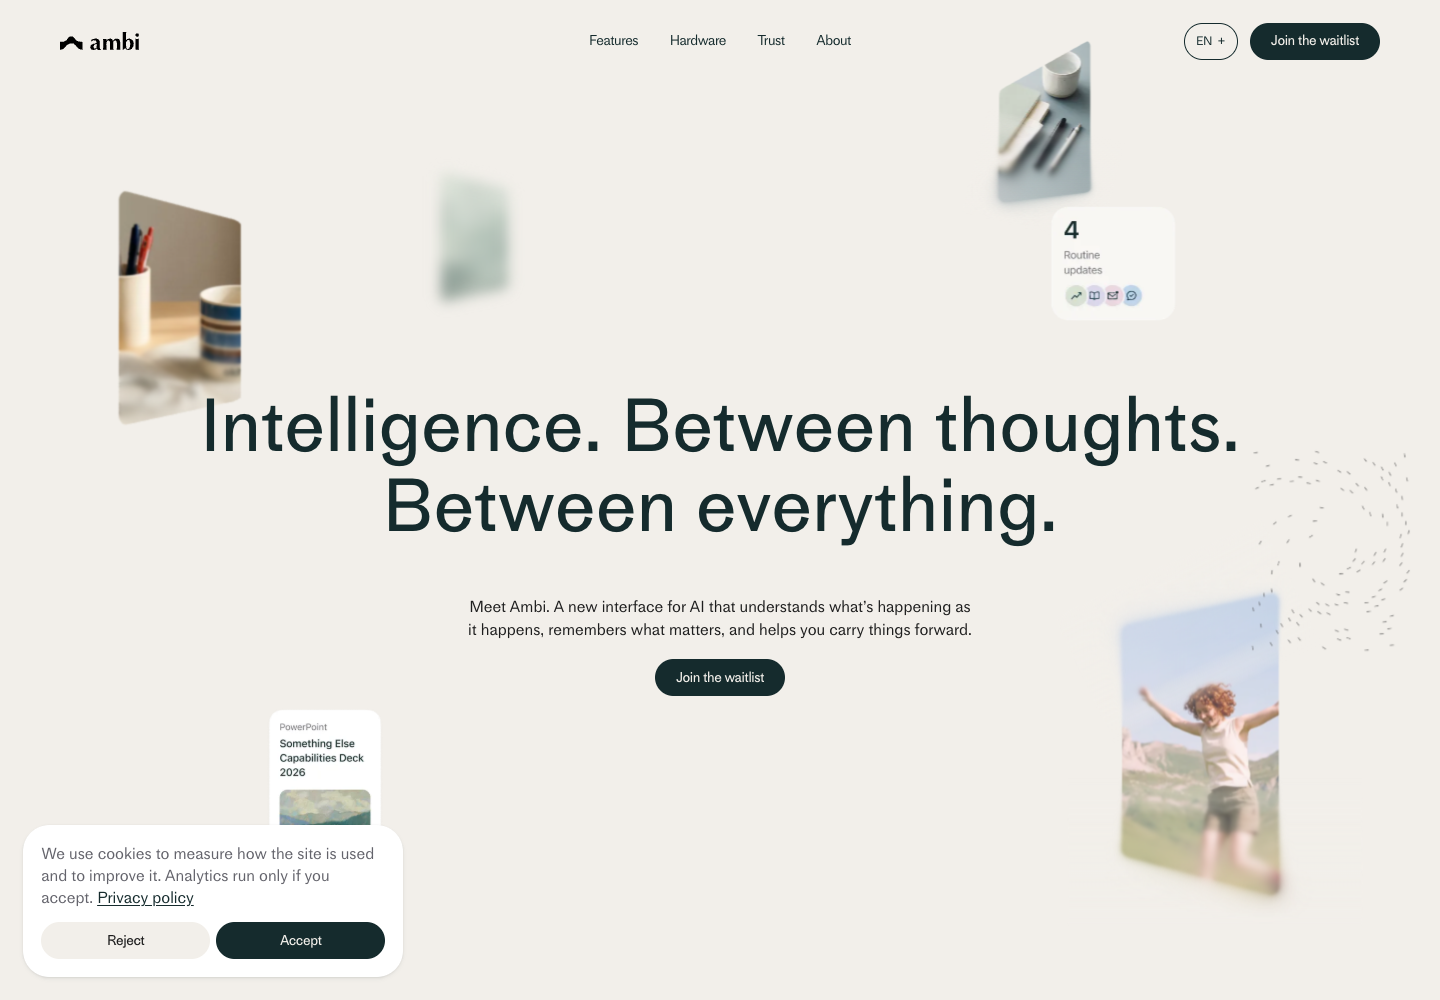
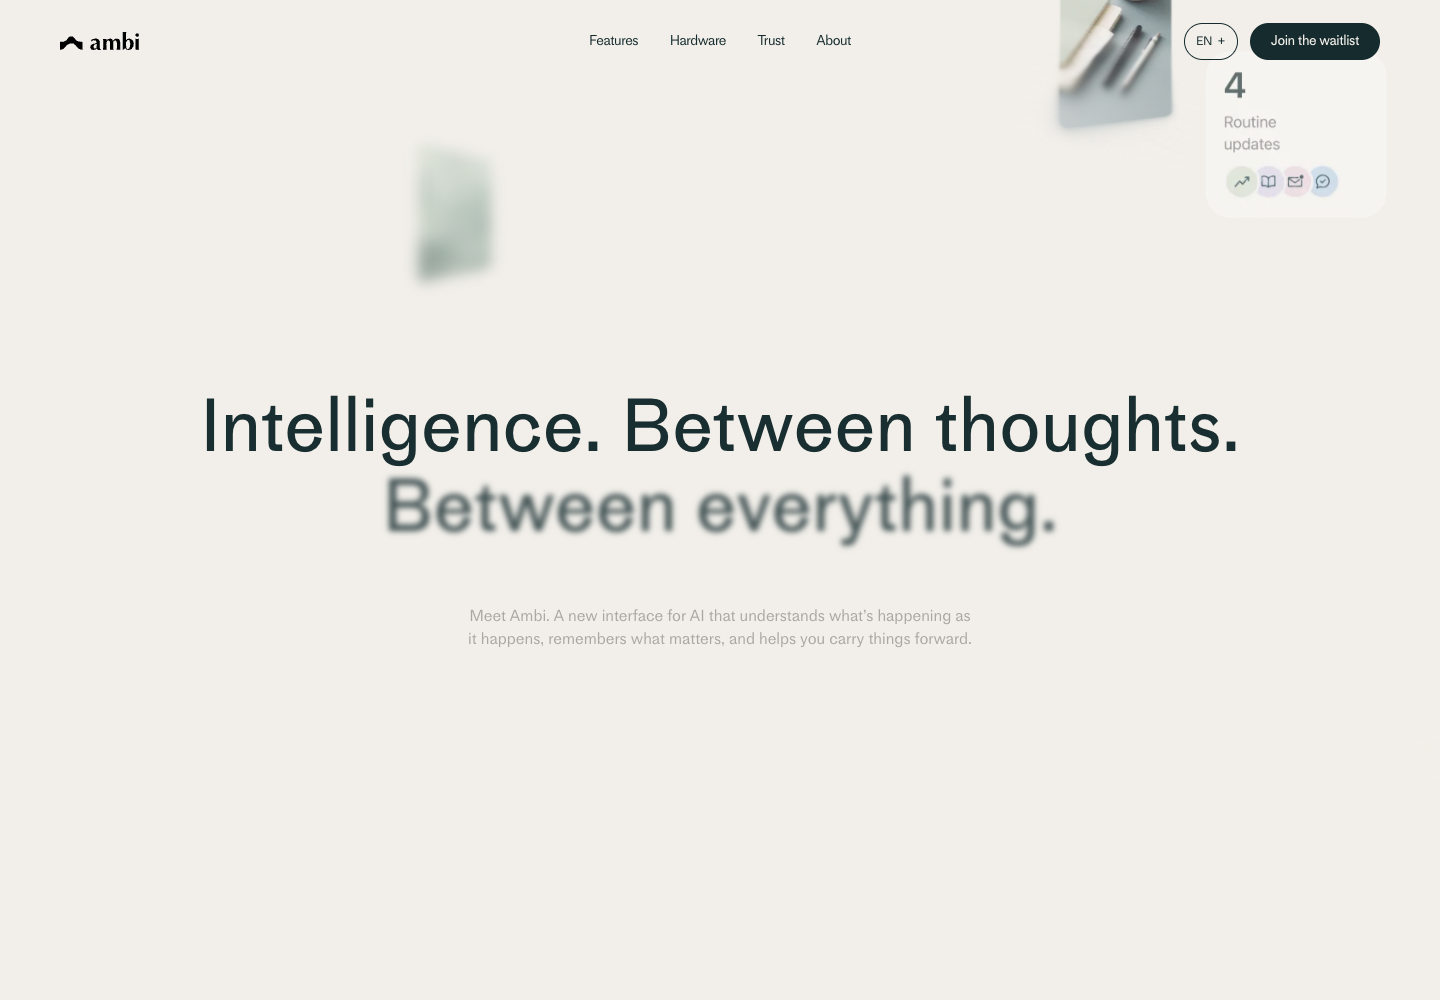
docs: add verified Doneas sources and clarify Ambi visual evidence

diff --git a/_briefs/2026-10-23-doneas-product-teardown.md b/_briefs/2026-10-23-doneas-product-teardown.md
@@ -84,3 +84,121 @@ source_refs:
 - checks:
 - published_at:
 - retro_notes:
+
+## 本次公开研究附录
+
+以下是本次重新核读公开资料取得的事实包。只选取支撑正文的事实，保留来源与未验证边界。
+
+# Doneas 公开资料证据包
+
+获取日期：2026-10-23（Asia/Singapore）。用途：供 cubxxw.com 产品拆解选材、引用与事实核对；本文件是研究资料，不是文章成稿。
+
+研究边界：只访问匿名可读的公开网页和网页公开引用的静态文件；没有登录、注册、加入圈子、通话、付款或触碰私人工作区；没有读取 Brain、既有私有研究或记忆。公开目录里的普通用户姓名、个人简介与具体任务不收录进本资料包。
+
+## 可以先采用的产品身份
+
+Doneas 的当前官网是 [doneas.com](https://doneas.com/)。官方将它定位为面向独立创业者、solo builders 的 Web 产品，把项目取舍、每周计划、日常同伴问责和进度记录连起来。官方 FAQ 明确说明，称作 accountability app 不代表存在原生 iOS 或 Android 应用。[S02](https://doneas.com/productivity-app) [S04](https://doneas.com/accountability-app)
+
+本次没有取得可核读的公司主体、注册地或创始人署名声明。官网手册和三篇早期博客署名 Bengeekly，官网的 demo profile 按钮链接到 `@bengeekly`；这些事实不足以单独证明法律主体或唯一创始人身份。[S01](https://doneas.com/) [S09](https://doneas.com/playbook) [S10](https://doneas.com/blog/welcome-to-the-doneas-blog)
+
+## 逐项事实账本
+
+“官方说明”表示厂商公开宣称的行为；“公开页观察”只表示本次匿名访问看到了相应字段或链接。两者均不等于付费产品、长期使用或真实通话实测。
+
+| 编号 | 可引用的事实或表述 | 证据级别 | 直接来源 |
+| --- | --- | --- | --- |
+| F01 | 产品将独立创业者、个人 builder、自由职业者与顾问列为目标用户，核心功能有项目取舍、周计划、每日同伴问责、进度记录。 | 官方说明 | [S02，开头与 Built for entrepreneurs who work independently](https://doneas.com/productivity-app) |
+| F02 | 计划阶段支持估算任务工作量、指定执行日期，并以实际容量安排一周；周一锁定后仍可新增工作，但迟加项应继续可见。 | 官方说明 | [S02，How Doneas works](https://doneas.com/productivity-app) |
+| F03 | 周计划被放在项目与路线图之后：项目给出长期方向，周计划选择本周承诺的工作。未完成项需要重新判断是否保留、拆分或删除。 | 官方说明 | [S03，Start With Your Projects 与 What Happens to Unfinished Tasks](https://doneas.com/weekly-planning) |
+| F04 | 项目页强调把“拥有一个项目”与“现在优先做这个项目”分开；项目、路线图、周计划、执行和进度构成连续流程。 | 官方说明 | [S05，Move From Project Planning to Weekly Execution](https://doneas.com/project-roadmap) |
+| F05 | 首页把一周标成周日计划、周一中午锁定、工作日执行、周五回顾；未完成项由用户手动带入后续计划。页面未在这段说明中明确锁定时区。 | 官方说明 | [S01，The week](https://doneas.com/) |
+| F06 | 圈子以同一批五位 builder、每工作日 15 分钟、持续一个月为标准描述。请假不计缺席；缺席会显示；三次缺席后移出，官网称一年可自行重新激活两次，此后需要同伴担保。 | 官方说明，惩罚规则未实测 | [S01，The circle](https://doneas.com/) |
+| F07 | 官网把圈子的作用限定为见证承诺与执行，不负责派发工作、管理项目或决定优先级；FAQ 使用“昨天做了什么、今天做什么”两问。 | 官方说明 | [S04，Work Alone Without Being Completely Alone、FAQ](https://doneas.com/accountability-app) |
+| F08 | 综合产品页把通话写成三个问题：完成了什么、下一步做什么、有什么阻碍。两问与三问版本并存，文章宜概括为“简短报进展、下一步与阻碍”。 | 官方说明存在措辞差异 | [S02，Check in](https://doneas.com/productivity-app)；[S04，Two Questions](https://doneas.com/accountability-app) |
+| F09 | 进度记录关联已完成工作与参与问责的持续性；官方称记录来自原有流程内的动作，并允许用户控制公开哪些部分。 | 官方说明，设置未实测 | [S06，Track Your Daily Accountability Too、Control What You Make Visible](https://doneas.com/progress-tracking) |
+| F10 | 首页当前报价为免费 30 天，之后每月 25 美元，可随时取消；首页还声称取消后个人页面保留。没有在本次资料中证明试用是否要求支付卡、税费或退款规则。 | 官方说明，未结账验证 | [S01，首屏与末尾 CTA](https://doneas.com/) |
+| F11 | 首页明确使用“no AI, on purpose”作为卖点。这是官方定位，不能据此断言整套技术栈完全没有任何模型或自动化服务。 | 官方说明 | [S01，首屏价格行](https://doneas.com/) |
+| F12 | 公开 circles 目录允许先按固定时段选圈子，显示 UTC 时间、月度名称、人数和剩余席位；也提供转向 builders 目录、先选人的入口。 | 公开页观察 | [S07](https://doneas.com/circles) |
+| F13 | 本次 circles 目录显示七条月度圈子记录，UTC 时段为 01:00、06:00、07:00、08:00、11:00、13:00、20:00。时段会变，不可写成永久排班或时区覆盖承诺。 | 公开页观察，时点数据 | [S07](https://doneas.com/circles) |
+| F14 | 公开 builders 目录包含姓名/地点/圈子搜索框、所属圈子与“Join calls with …”入口；也存在 Between circles 状态。目录标题当时显示 21 人，但这是页面计数，不是已核实的付费人数或活跃人数。 | 公开页观察，时点数据 | [S08](https://doneas.com/builders) |
+| F15 | 一个匿名可读的圈子详情显示：每天 07:00 UTC、15 分钟、运行至 10 月 31 日、席位 5 of 5，并给出下一场 standup 日期。 | 公开页观察 | [S13](https://doneas.com/circle/64) |
+| F16 | 对圈子目录的 Join calls 链接进行匿名访问后，浏览工具最终落到注册页。这里只证明匿名加入需要先进入注册流程，不能证明完成注册后的分配行为。 | 公开链接跳转观察 | [S14，join/76](https://doneas.com/join/76) → [register](https://doneas.com/register) |
+
+## 手册与设计来历
+
+[The Solo Playbook](https://doneas.com/playbook) 署名 Bengeekly，页面公开发布的文案围绕把计划与执行分开、把新点子放入 backlog、让失约产生小而确定的代价、调整环境减少意志力依赖，以及找一个会注意到自己消失的人。作者讲到用 KitKat 约束迟到、把闹钟放远、曾雇人每天来电问计划。这些是作者的自述，不能写成经过独立验证的心理学效果或用户战绩。[S09](https://doneas.com/playbook)
+
+手册本次未被网页正文抽取器成功展开，两次匿名浏览器渲染也超时。上述文案来自该公开页面直接引用的官方发布文件 [Playbook-DLn9ievC.js](https://doneas.com/build/assets/Playbook-DLn9ievC.js)，属于公开发布内容核读，不是浏览器交互验收。文件名带版本指纹，后续可能改变。
+
+两篇更便于外部读者核查的官方短文，能交叉支持设计来历：
+
+- [Separate planning from execution](https://doneas.com/blog/separate-planning-from-execution)，2026-08-05，Bengeekly：自述用周日晚上 30 分钟决定本周安排，工作日执行既定计划。支持“把取舍集中在一个固定时间”的产品思路，不证明所有用户都会减少拖延。[S11](https://doneas.com/blog/separate-planning-from-execution)
+- [Make slipping cost something](https://doneas.com/blog/make-slipping-cost-something)，2026-08-01，Bengeekly：自述以一块 KitKat 作为迟到代价，强调代价确定、即时且有人知道。不能由此推导 Doneas 会对缺席收取罚金。[S12](https://doneas.com/blog/make-slipping-cost-something)
+
+## 不能从公开资料推出的结论
+
+1. **不能写“我参加后更自律了”**：本次没有完成注册、计划、真实通话或多周使用。也没有独立用户效果数据。
+2. **不能写每个圈子严格总共五人且系统绝不超员**：目录当时一条记录显示 `6 of 5`，其详情则显示 `5 of 5`。同一目录还出现重复的 Circle 5 和 Circle 6 名称。应保留为公开展示的不一致，不能判断是容量规则、管理者额外席位、缓存还是错误。[S07](https://doneas.com/circles) [S13](https://doneas.com/circle/64)
+3. **不能把同伴问责写成教练服务**：官方说明圈子不负责管理项目；没有证明存在专业主持、教练质量保障、行业匹配或冲突处理制度。[S04](https://doneas.com/accountability-app)
+4. **不能声称系统验证了真实产出**：公开说明能证明产品记录“shipped”，尚未证明系统会核验任务对应的实际外部成果，或防止自报造假。
+5. **不能断言每周锁定在用户本地周一中午**：首页给出 Monday noon，未说明采用何种时区。对补加、改期、撤销、跨周和节假日的全部边界也未实测。[S01](https://doneas.com/) [S02](https://doneas.com/productivity-app)
+6. **不能把 HTML 中的脚本、资源域名推成后端架构**：本次不对数据库、视频服务、支付处理方、安全性、数据保留或模型使用作未经证明的推断。
+7. **不能把网页里的视频占位当已看完演示**：公开发布文件存在视频卡片与时长文案；本次未找到并播放可核读的视频，不引用视频内含信息。
+
+## 条款、隐私与计费：查到了什么、还差什么
+
+2026-10-23 核读首页、功能页、目录和注册入口，并检索 `site:doneas.com privacy`、`site:doneas.com terms` 与退款关键词后，未找到可直接核读的 Doneas 官方条款、隐私或退款页面。匿名 HTTP 检查得到：
+
+| 检查地址 | 本次结果 | 能说明什么 |
+| --- | --- | --- |
+| [privacy](https://doneas.com/privacy) | HTTP 404 | 只说明此路径不可用 |
+| [privacy-policy](https://doneas.com/privacy-policy) | HTTP 404 | 同上 |
+| [terms](https://doneas.com/terms) | HTTP 404 | 同上 |
+| [terms-of-service](https://doneas.com/terms-of-service) | HTTP 404 | 同上 |
+| [pricing](https://doneas.com/pricing) | HTTP 404 | 独立价格页不可用，价格依据仍是首页 |
+| [sitemap.xml](https://doneas.com/sitemap.xml) | HTTP 200 | 本次列出的站点地图没有法律或独立价格页入口 |
+| [robots.txt](https://doneas.com/robots.txt) | HTTP 200 | 给出了上述 sitemap；不构成隐私承诺 |
+
+检索未找到不等于这些文件不存在。仍待厂商或实际购买流程证明：法律主体、支付卡要求、自动续费与取消生效时间、退款、数据删除/导出、公开默认值、会议是否录制、视频/音频处理与保存、成员举报/申诉、缺席重置的年度口径。文章可以明确说“公开入口中没有找到”，不要写成合规结论。
+
+## 官方图像与截图候选入口
+
+本研究没有生成已验收的产品截图。以下是可进一步采集的官方入口；取图前应按文章用途核读画面，并避免普通用户个人任务、简介、聊天或真实通话成员。
+
+| 候选 | URL | 已确认的边界与用途 |
+| --- | --- | --- |
+| 首页首屏与每周流程 | https://doneas.com/ | 最适合表现定位、价格与 Plan/Lock/Ship/Reflect；其中交互演示不能冒充真实账号使用 |
+| 圈子目录 | https://doneas.com/circles | 能展示“先选可坚持的时间”这一入口；建议裁切时段与人数信息，避免普通成员肖像/姓名；保留截图日期 |
+| 圈子详情 | https://doneas.com/circle/64 | 适合展示 15 分钟、月度周期、UTC 时间与席位；同样须裁切成员信息 |
+| 手册 | https://doneas.com/playbook | 适合展示产品方法论；当前采集器未完成视觉渲染，不能声称已检查排版与视频 |
+| 官网分享图 | https://doneas.com/brand/og-default.png | 官方 `og:image` 与 `twitter:image` 元数据指向此图；本次 HEAD 返回 HTTP 200、image/png、37744 字节；它是分享图候选，不是产品界面截图 |
+| 站点品牌图标 | https://doneas.com/favicon.svg?v=2 | 页面公开引用；本次 HEAD 返回 HTTP 200、image/svg+xml；使用前检查视觉 |
+| Apple touch icon | https://doneas.com/apple-touch-icon.png?v=2 | 页面公开引用；本次 HEAD 返回 HTTP 200、image/png、3537 字节；不证明存在原生 iOS 应用 |
+
+## 来源登记
+
+所有下列网页均于 2026-10-23 访问。除单独注明外，网页没有可据以确认的最后更新时间；“获取日期”不等于“发布日期”。
+
+| ID | 标题 / 类型 | URL | 备注 |
+| --- | --- | --- | --- |
+| S01 | Accountability and Productivity Tool for Builders / 官网首页 | https://doneas.com/ | 实时正文核读；搜索缓存的旧标题仍为 Plan Less. Stay Accountable. Ship More.，当前正文标题已转向每日通话，文章使用实时正文 |
+| S02 | Productivity App for Entrepreneurs / 功能总览与 FAQ | https://doneas.com/productivity-app | 实时正文核读 |
+| S03 | Weekly Planning App for Solo Builders / 功能页与 FAQ | https://doneas.com/weekly-planning | 实时正文核读 |
+| S04 | Accountability App for Solo Builders / 功能页与 FAQ | https://doneas.com/accountability-app | 实时正文核读 |
+| S05 | Project Roadmap & Planning for Solo Builders / 功能页与 FAQ | https://doneas.com/project-roadmap | 实时正文核读 |
+| S06 | Progress Tracking for Solo Builders / 功能页与 FAQ | https://doneas.com/progress-tracking | 实时正文核读 |
+| S07 | The circles meeting on Doneas / 公开目录 | https://doneas.com/circles | 时点观察，可能随时变化 |
+| S08 | The builders shipping on Doneas / 公开目录 | https://doneas.com/builders | 时点观察；本文件不复制普通用户资料 |
+| S09 | The Solo Playbook / 方法论手册 | https://doneas.com/playbook | HTML 与公开引用文件核读，未成功视觉渲染 |
+| S10 | Welcome to the Doneas blog / 官方博客 | https://doneas.com/blog/welcome-to-the-doneas-blog | 页面署 2026-08-07、Bengeekly |
+| S11 | Separate planning from execution / 官方博客 | https://doneas.com/blog/separate-planning-from-execution | 页面署 2026-08-05、Bengeekly |
+| S12 | Make slipping cost something / 官方博客 | https://doneas.com/blog/make-slipping-cost-something | 页面署 2026-08-01、Bengeekly |
+| S13 | Circle 2 · Oct 2026 / 公开详情 | https://doneas.com/circle/64 | 时点观察 |
+| S14 | 加入圈子链接 / 公开入口 | https://doneas.com/join/76 | 匿名访问最终重定向注册页；没有提交表单 |
+| S15 | 站点地图 / 官方发现入口 | https://doneas.com/sitemap.xml | HTTP 200，辅助法律页发现 |
+
+引用建议：功能事实分别引用对应功能页；圈子入口引用公开目录；作者经历引用作者署名短文。不要仅用首页支撑全文，也不要把营销页的效果措辞直接转写为作者实测结论。
+
+## 配图交接
+
+已截取并目视检查官网公开页面。`/images/product-docs/2026/doneas-home.png` 是首屏营销演示，可作封面；`/images/product-docs/2026/doneas-weekly.png` 是官方周计划说明。请标明官方示意与 2026-10-23 获取日期，英文保留相同资源路径。正文也可以用简洁的原创流程示意补充解释，不生成无关隐喻图。

diff --git a/_briefs/2026-10-23-ambi-product-teardown.md b/_briefs/2026-10-23-ambi-product-teardown.md
@@ -293,6 +293,6 @@ URL：https://www.ambi.ai/en/about
 
 - `/images/product-docs/2026/ambi-home.png`：官网公开页面，2026-10-23 获取。标明是官方演示，不是作者账户实测。
 
-- `/images/product-docs/2026/ambi-features.png`：官网公开页面，2026-10-23 获取。标明是官方演示，不是作者账户实测。
+- `/images/product-docs/2026/ambi-features.png`：官网 features 页的 Memory 官方示意原图，2026-10-23 获取。图中有 timeline、topics、files、skills，必须标明是官方示意，不是作者账户实测。原图来源为附录中的 Memory 素材 URL。
 
 图像可作本文封面，完整英文保留相同资源路径。不要再生成无关隐喻图。
